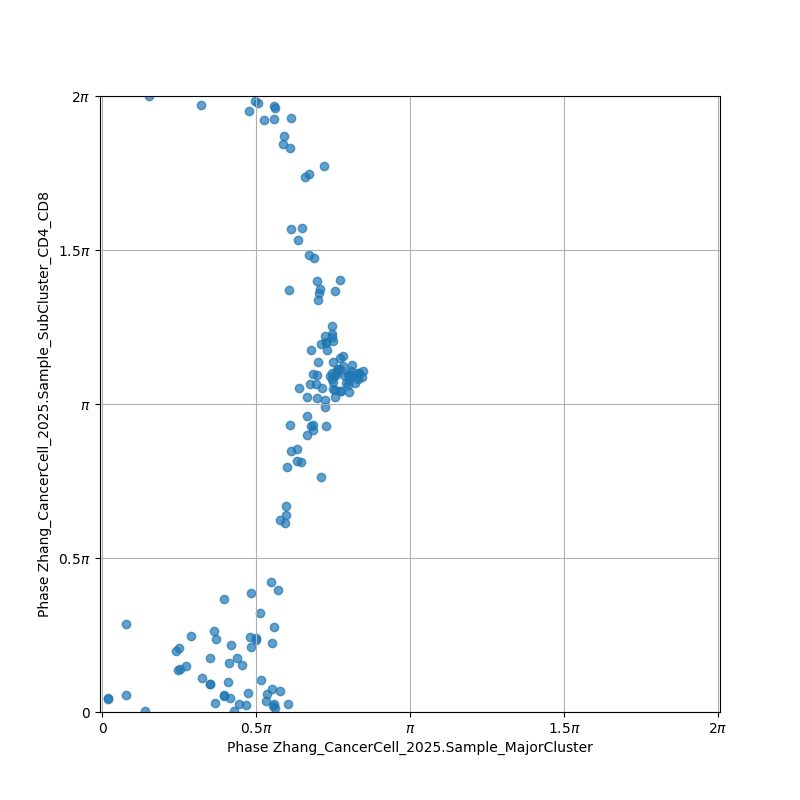
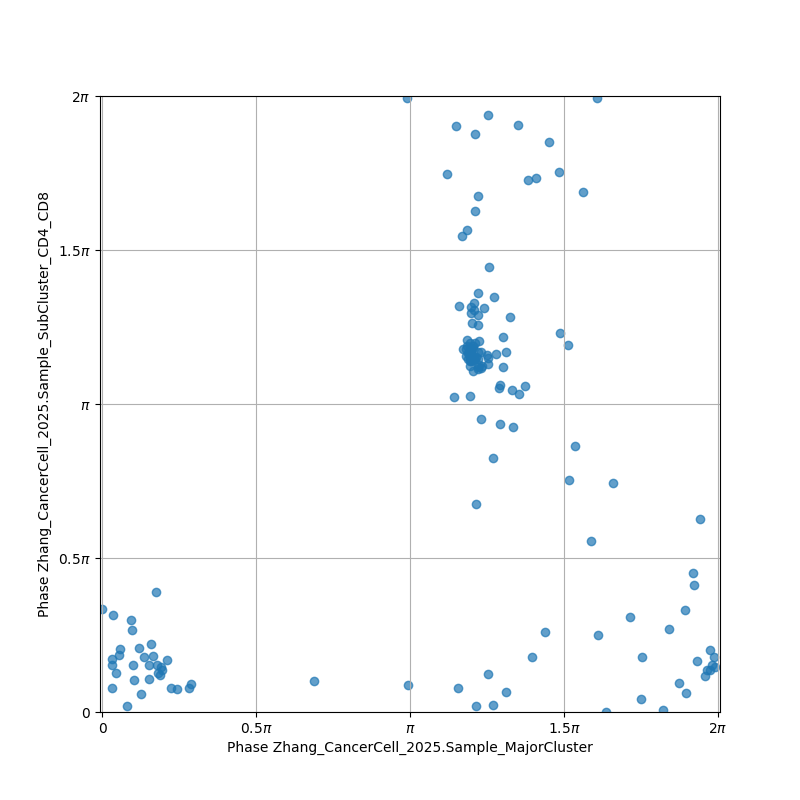
update

diff --git a/my_cyclops_ellipse_loss.py b/my_cyclops_ellipse_loss.py
@@ -38,31 +38,55 @@ class PhaseAutoEncoder(nn.Module):
         
         if self.use_celltype:
             self.celltype_embedding = nn.Embedding(n_celltypes, celltype_embedding_dim)
-            encoder_input_dim = input_dim + celltype_embedding_dim
+            self.scale_transform = nn.Linear(celltype_embedding_dim, input_dim)
+            self.additive_transform = nn.Linear(celltype_embedding_dim, input_dim)
+            self.global_bias = nn.Parameter(torch.zeros(input_dim))
+            encoder_input_dim = input_dim
         else:
             encoder_input_dim = input_dim
         
-        self.encoder = nn.Linear(encoder_input_dim, 2)
-        self.decoder = nn.Linear(2, input_dim)
+        self.encoder = nn.Sequential(
+            nn.Linear(encoder_input_dim, 32),
+            nn.ReLU(),
+            nn.Linear(32, 2)
+        )
+        self.decoder = nn.Sequential(
+            nn.Linear(2, 32),
+            nn.ReLU(),
+            nn.Linear(32, input_dim)
+        )
+        self.dropout = nn.Dropout(dropout)
     
     def forward(self, x, celltype_indices=None):
         if self.use_celltype and celltype_indices is not None:
             celltype_emb = self.celltype_embedding(celltype_indices)
-            combined_input = torch.cat([x, celltype_emb], dim=1)
+            scale_factor = self.scale_transform(celltype_emb)
+            additive_factor = self.additive_transform(celltype_emb)
+            modified_input = x * (1 + scale_factor) + additive_factor + self.global_bias
         else:
-            combined_input = x
+            modified_input = x
         
-        phase_coords = self.encoder(combined_input)
-        reconstructed = self.decoder(phase_coords)
-        return phase_coords, reconstructed
+        modified_input = self.dropout(modified_input)
+        phase_coords = self.encoder(modified_input)
+        norm = torch.norm(phase_coords, dim=1, keepdim=True) + 1e-8
+        phase_coords_normalized = phase_coords / norm
+        reconstructed = self.decoder(phase_coords_normalized)
+        return phase_coords_normalized, reconstructed
     
     def encode(self, x, celltype_indices=None):
         if self.use_celltype and celltype_indices is not None:
             celltype_emb = self.celltype_embedding(celltype_indices)
-            combined_input = torch.cat([x, celltype_emb], dim=1)
+            scale_factor = self.scale_transform(celltype_emb)
+            additive_factor = self.additive_transform(celltype_emb)
+            modified_input = x * (1 + scale_factor) + additive_factor + self.global_bias
         else:
-            combined_input = x
-        return self.encoder(combined_input)
+            modified_input = x
+        
+        modified_input = self.dropout(modified_input)
+        phase_coords = self.encoder(modified_input)
+        norm = torch.norm(phase_coords, dim=1, keepdim=True) + 1e-8
+        phase_coords_normalized = phase_coords / norm
+        return phase_coords_normalized
     
     def decode(self, phase_coords):
         return self.decoder(phase_coords)
@@ -281,7 +305,7 @@ def train_model(model, train_dataset, preprocessing_info,
     model = model.to(device)
 
     optimizer = optim.Adam(model.parameters(), lr=lr)
-    scheduler = optim.lr_scheduler.StepLR(optimizer, step_size=500, gamma=0.5)
+    scheduler = optim.lr_scheduler.StepLR(optimizer, step_size=500, gamma=0.9)
     
     recon_criterion = nn.MSELoss()
     
@@ -321,14 +345,13 @@ def train_model(model, train_dataset, preprocessing_info,
     if all_celltypes:
         celltypes_array = np.array(all_celltypes)
     
-    # 准备细胞类型索引
     celltype_indices_tensor = None
     if preprocessing_info['train_has_celltype'] and celltypes_array is not None:
         celltype_to_idx = preprocessing_info['celltype_to_idx']
         celltype_indices = []
         for ct in celltypes_array:
             if ct == 'PADDING':
-                celltype_indices.append(0)  # 用0表示PADDING
+                celltype_indices.append(0)
             else:
                 celltype_indices.append(celltype_to_idx.get(ct, 0))
         celltype_indices_tensor = torch.tensor(celltype_indices, device=device)
@@ -343,12 +366,10 @@ def train_model(model, train_dataset, preprocessing_info,
     
     with tqdm(total=num_epochs, desc="Joint Training Progress") as pbar:
         for epoch in range(num_epochs):
-            model.train()            
+            model.train()
             optimizer.zero_grad()
             
-            # 传入细胞类型信息
             phase_coords, reconstructed = model(expressions_tensor, celltype_indices_tensor)
-            
             if valid_mask_tensor.sum() > 0:
                 valid_expressions = expressions_tensor[valid_mask_tensor]
                 valid_reconstructed = reconstructed[valid_mask_tensor]
@@ -363,34 +384,42 @@ def train_model(model, train_dataset, preprocessing_info,
                 if len(valid_times) > 0:
                     time_loss = time_supervision_loss(valid_phase_coords, valid_times, 1.0, period_hours)
             
-            ellipse_loss = torch.tensor(0.0, device=device)
-            # if preprocessing_info['train_has_celltype'] and celltypes_array is not None:
-            #     valid_phase_coords = phase_coords[valid_mask_tensor]
-            #     valid_celltypes = celltypes_array[valid_mask_tensor.cpu().numpy()]
-            #     non_padding_mask = valid_celltypes != 'PADDING'
-            #     if non_padding_mask.sum() > 0:
-            #         final_phase_coords = valid_phase_coords[non_padding_mask]
-            #         final_celltypes = valid_celltypes[non_padding_mask]
-            #         unique_celltypes = np.unique(final_celltypes)
-            #         ellipse_losses = []
-            #         for ct in unique_celltypes:
-            #             ct_mask = final_celltypes == ct
-            #             coords = final_phase_coords[ct_mask]
-            #             if coords.shape[0] < 5:
-            #                 continue
-            #             mean = coords.mean(dim=0)
-            #             cov = torch.cov(coords.T)
-            #             diff = coords - mean
-            #             try:
-            #                 cov_inv = torch.linalg.inv(cov)
-            #                 ellipse_eq = torch.sum(diff @ cov_inv * diff, dim=1)
-            #                 ellipse_losses.append(torch.mean((ellipse_eq - 1) ** 2))
-            #             except Exception:
-            #                 continue
-            #         if ellipse_losses:
-            #             ellipse_loss = torch.mean(torch.stack(ellipse_losses))
-
-            total_loss = lambda_recon * recon_loss + lambda_time * time_loss + lambda_ellipse * ellipse_loss
+            diversity_loss = torch.tensor(0.0, device=device)
+            if preprocessing_info['train_has_celltype'] and celltypes_array is not None:
+                valid_phase_coords = phase_coords[valid_mask_tensor]
+                valid_celltypes = celltypes_array[valid_mask_tensor.cpu().numpy()]
+                non_padding_mask = valid_celltypes != 'PADDING'
+                if non_padding_mask.sum() > 0:
+                    final_phase_coords = valid_phase_coords[non_padding_mask]
+                    final_celltypes = valid_celltypes[non_padding_mask]
+                    unique_celltypes = np.unique(final_celltypes)
+                    diversity_losses = []
+                    for ct in unique_celltypes:
+                        ct_mask = final_celltypes == ct
+                        coords = final_phase_coords[ct_mask]
+                        if coords.shape[0] < 3:
+                            continue
+                        phases = coords_to_phase(coords)
+                        n_bins = min(24, max(6, coords.shape[0] // 2))
+                        hist = torch.histc(phases, bins=n_bins, min=0, max=2*np.pi)
+                        prob = hist / hist.sum()
+                        prob = torch.clamp(prob, min=1e-8)
+                        
+                        # 计算熵（正值）
+                        entropy = -torch.sum(prob * torch.log(prob))
+                        # 标准化熵值
+                        max_entropy = torch.log(torch.tensor(n_bins, dtype=torch.float32, device=device))
+                        normalized_entropy = entropy / max_entropy
+                        
+                        # 转换为正值且越小越好：1 - normalized_entropy
+                        # 当完全均匀时，normalized_entropy = 1，损失 = 0
+                        # 当完全聚集时，normalized_entropy = 0，损失 = 1
+                        uniformity_loss = 1.0 - normalized_entropy
+                        diversity_losses.append(uniformity_loss)
+                        
+                    if diversity_losses:
+                        diversity_loss = torch.mean(torch.stack(diversity_losses))
+            total_loss = lambda_recon * recon_loss + lambda_time * time_loss + lambda_ellipse * diversity_loss * 1000
             total_loss.backward()
             optimizer.step()
             
@@ -403,7 +432,7 @@ def train_model(model, train_dataset, preprocessing_info,
                     'Train loss': f'{total_loss.item():.4f}',
                     'Recon': f'{recon_loss.item():.4f}',
                     'Time': f'{time_loss.item():.4f}',
-                    'Ellipse': f'{ellipse_loss.item():.4f}',
+                    'Diversity': f'{diversity_loss.item():.4f}',
                     'LR': f'{scheduler.get_last_lr()[0]:.6f}'
                 })
             

diff --git a/split_by_celltype.py b/split_by_celltype.py
@@ -1,0 +1,81 @@
+import csv
+from collections import defaultdict
+import os
+import glob
+
+def find_first_fit_csv(base_path):
+    search_pattern = os.path.join("result", base_path, "phase_predictions.csv")
+    files = glob.glob(search_pattern, recursive=True)
+    if not files:
+        raise FileNotFoundError(f"No phase_predictions.csv files found in {search_pattern}")
+    return files[0]
+
+def process_id(original_id):
+    parts = original_id.split(".")
+    if len(parts) > 1:
+        return ".".join(parts[:-1])
+    return original_id
+
+def split_by_celltype(base_path, celltype_col, output_dir, id_col="ID", default_celltype="Unknown"):
+    input_csv = find_first_fit_csv(base_path)
+    print(f"Found input file: {input_csv}")
+
+    with open(input_csv, newline='') as f:
+        reader = list(csv.DictReader(f))
+        header = list(reader[0].keys())
+
+    has_celltype_col = celltype_col in header
+    if not has_celltype_col:
+        print(f"Warning: Column '{celltype_col}' not found, treating all data as one celltype: '{default_celltype}'")
+
+    celltype_dict = defaultdict(list)
+    processed_count = 0
+    id_conversion_count = 0
+    
+    for row in reader:
+        if has_celltype_col:
+            celltype = row[celltype_col]
+        else:
+            celltype = default_celltype
+        
+        if id_col in row:
+            original_id = row[id_col]
+            processed_id = process_id(original_id)
+            
+            if original_id != processed_id:
+                print(f"ID conversion: {original_id} -> {processed_id}")
+                row[id_col] = processed_id
+                id_conversion_count += 1
+        
+        celltype_dict[celltype].append(row)
+        processed_count += 1
+
+    print(f"Processed {processed_count} records")
+    print(f"Converted {id_conversion_count} IDs")
+    
+    if has_celltype_col:
+        print(f"Found {len(celltype_dict)} different celltypes based on column '{celltype_col}'")
+    else:
+        print(f"All data grouped as one celltype: '{default_celltype}'")
+
+    os.makedirs(output_dir, exist_ok=True)
+
+    for celltype, rows in celltype_dict.items():
+        outname = os.path.join(output_dir, f"Fit_Output_{celltype}.csv")
+        with open(outname, "w", newline='') as f:
+            writer = csv.DictWriter(f, fieldnames=header)
+            writer.writeheader()
+            writer.writerows(rows)
+        print(f"Written file: {outname} ({len(rows)} records)")
+
+def split_by_celltype_with_custom_id_col(base_path, celltype_col, output_dir, id_col="ID"):
+    split_by_celltype(base_path, celltype_col, output_dir, id_col)
+
+if __name__ == "__main__":
+    base_path = "Zhang_CancerCell_2025.Sample_SubCluster"
+    celltype_col = "Cell_Type"
+    output_dir = f"result/{base_path}/Fit_celltype"
+    id_col = "Sample_ID"
+    default_celltype = "AllCells"
+
+    split_by_celltype(base_path, celltype_col, output_dir, id_col, default_celltype)

diff --git a/plot_compare.py b/plot_compare.py
@@ -101,7 +101,7 @@ def compare(path_1, path_2, save_path):
     plt.savefig(save_path_file)
     print(f"figure saved in {save_path_file}")
 
-path_1 = "Zhang_CancerCell_2025.Sample_MajorCluster"
+path_1 = "Zhang_CancerCell_2025.Sample_SubCluster_CD4_CD8_2"
 path_2 = "Zhang_CancerCell_2025.Sample_SubCluster_CD4_CD8"
 save_path = "plot"
 
